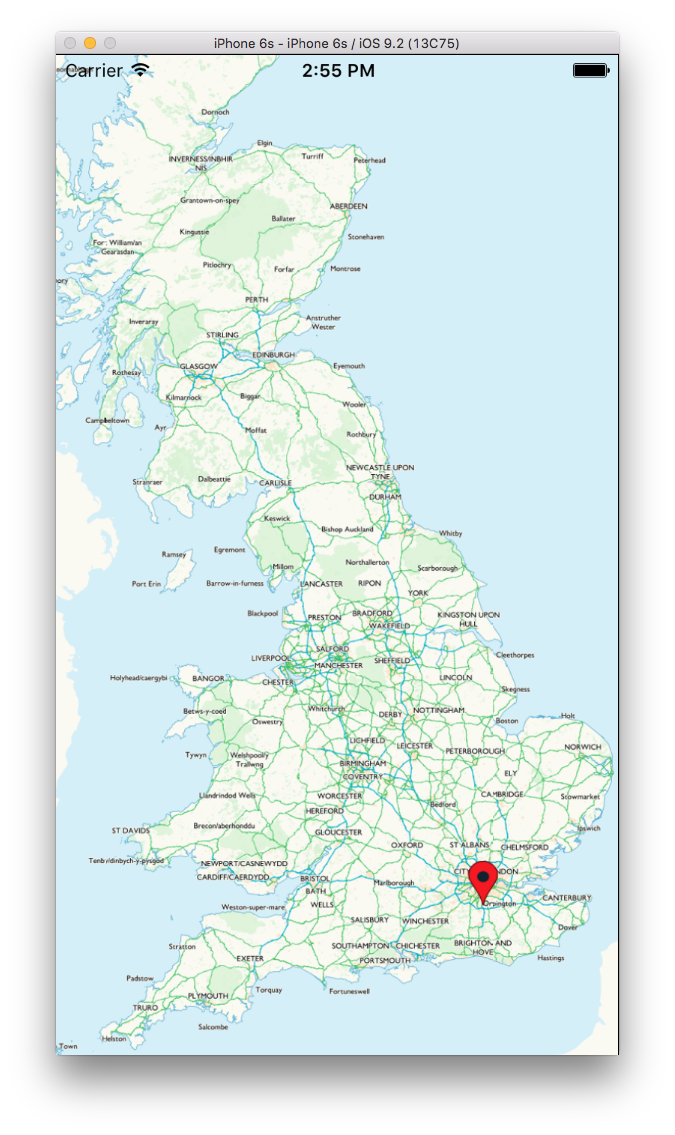
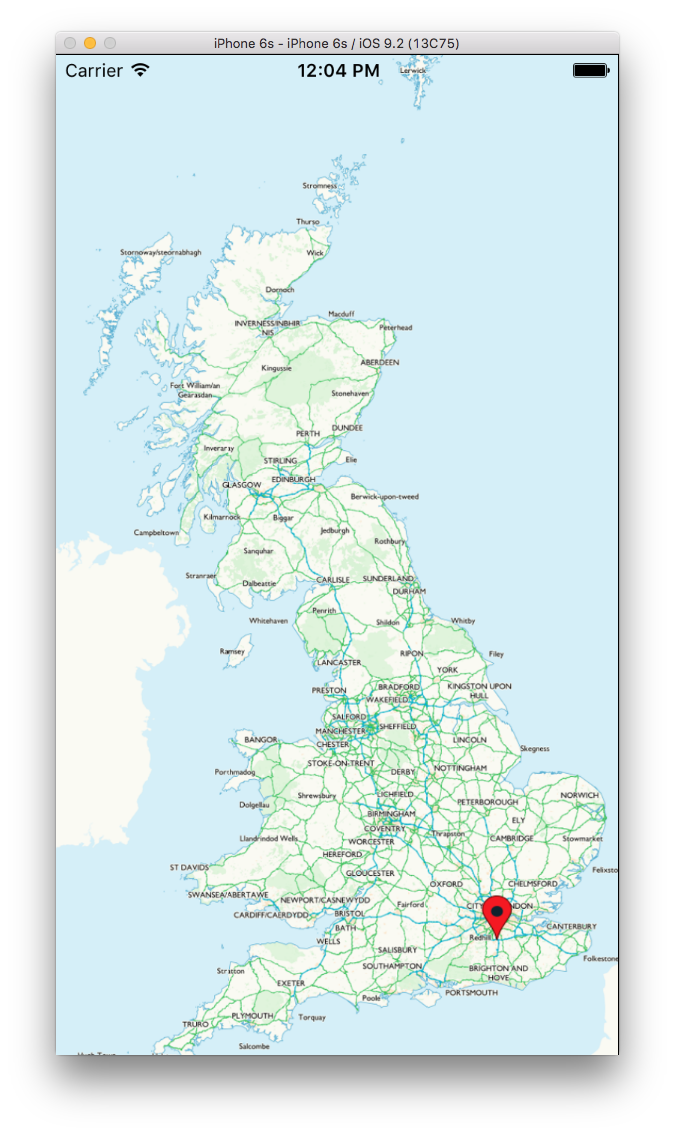
Update map starting position and screenshot

diff --git a/MaplyExampleObjC/ViewController.m b/MaplyExampleObjC/ViewController.m
@@ -39,9 +39,9 @@
     [self.maplyViewController addScreenMarkers:@[ marker ] desc:nil mode:MaplyThreadAny];
 
     // Set initial map position to the centre of GB
-    MaplyCoordinate centreOfGB = MaplyCoordinateMakeWithDegrees(54.83, -2.42);
+    MaplyCoordinate centreOfGB = MaplyCoordinateMake(-0.049939, 0.964304);
     MaplyCoordinate centreOfGBLocal = [self.maplyViewController.coordSys geoToLocal:centreOfGB];
-    [self.maplyViewController setPosition:centreOfGBLocal height:1.2];
+    [self.maplyViewController setPosition:centreOfGBLocal height:1.839962];
 }
 
 - (void)didReceiveMemoryWarning {
